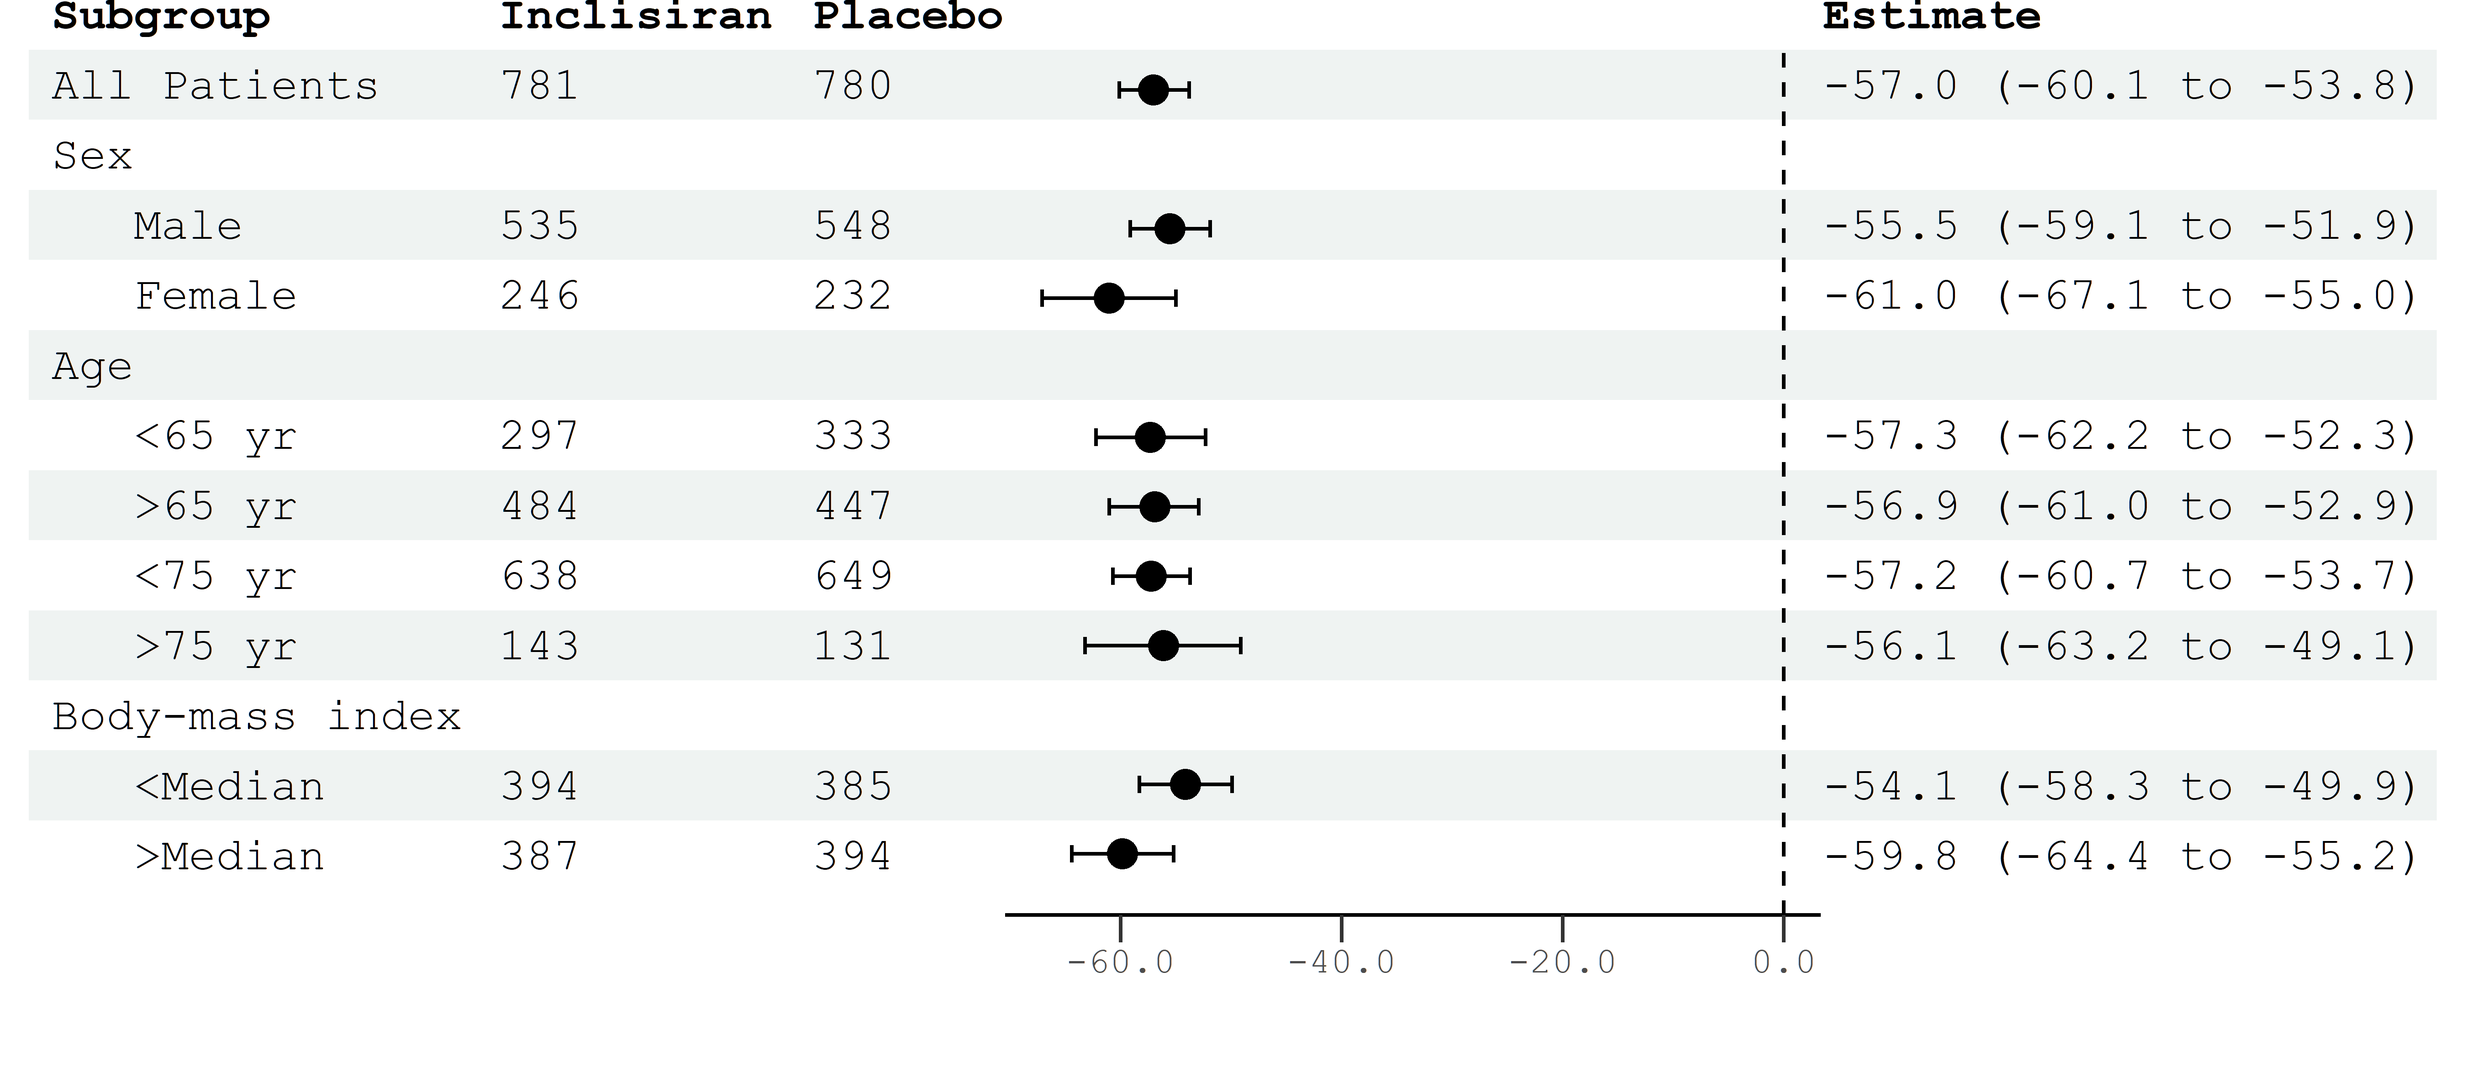
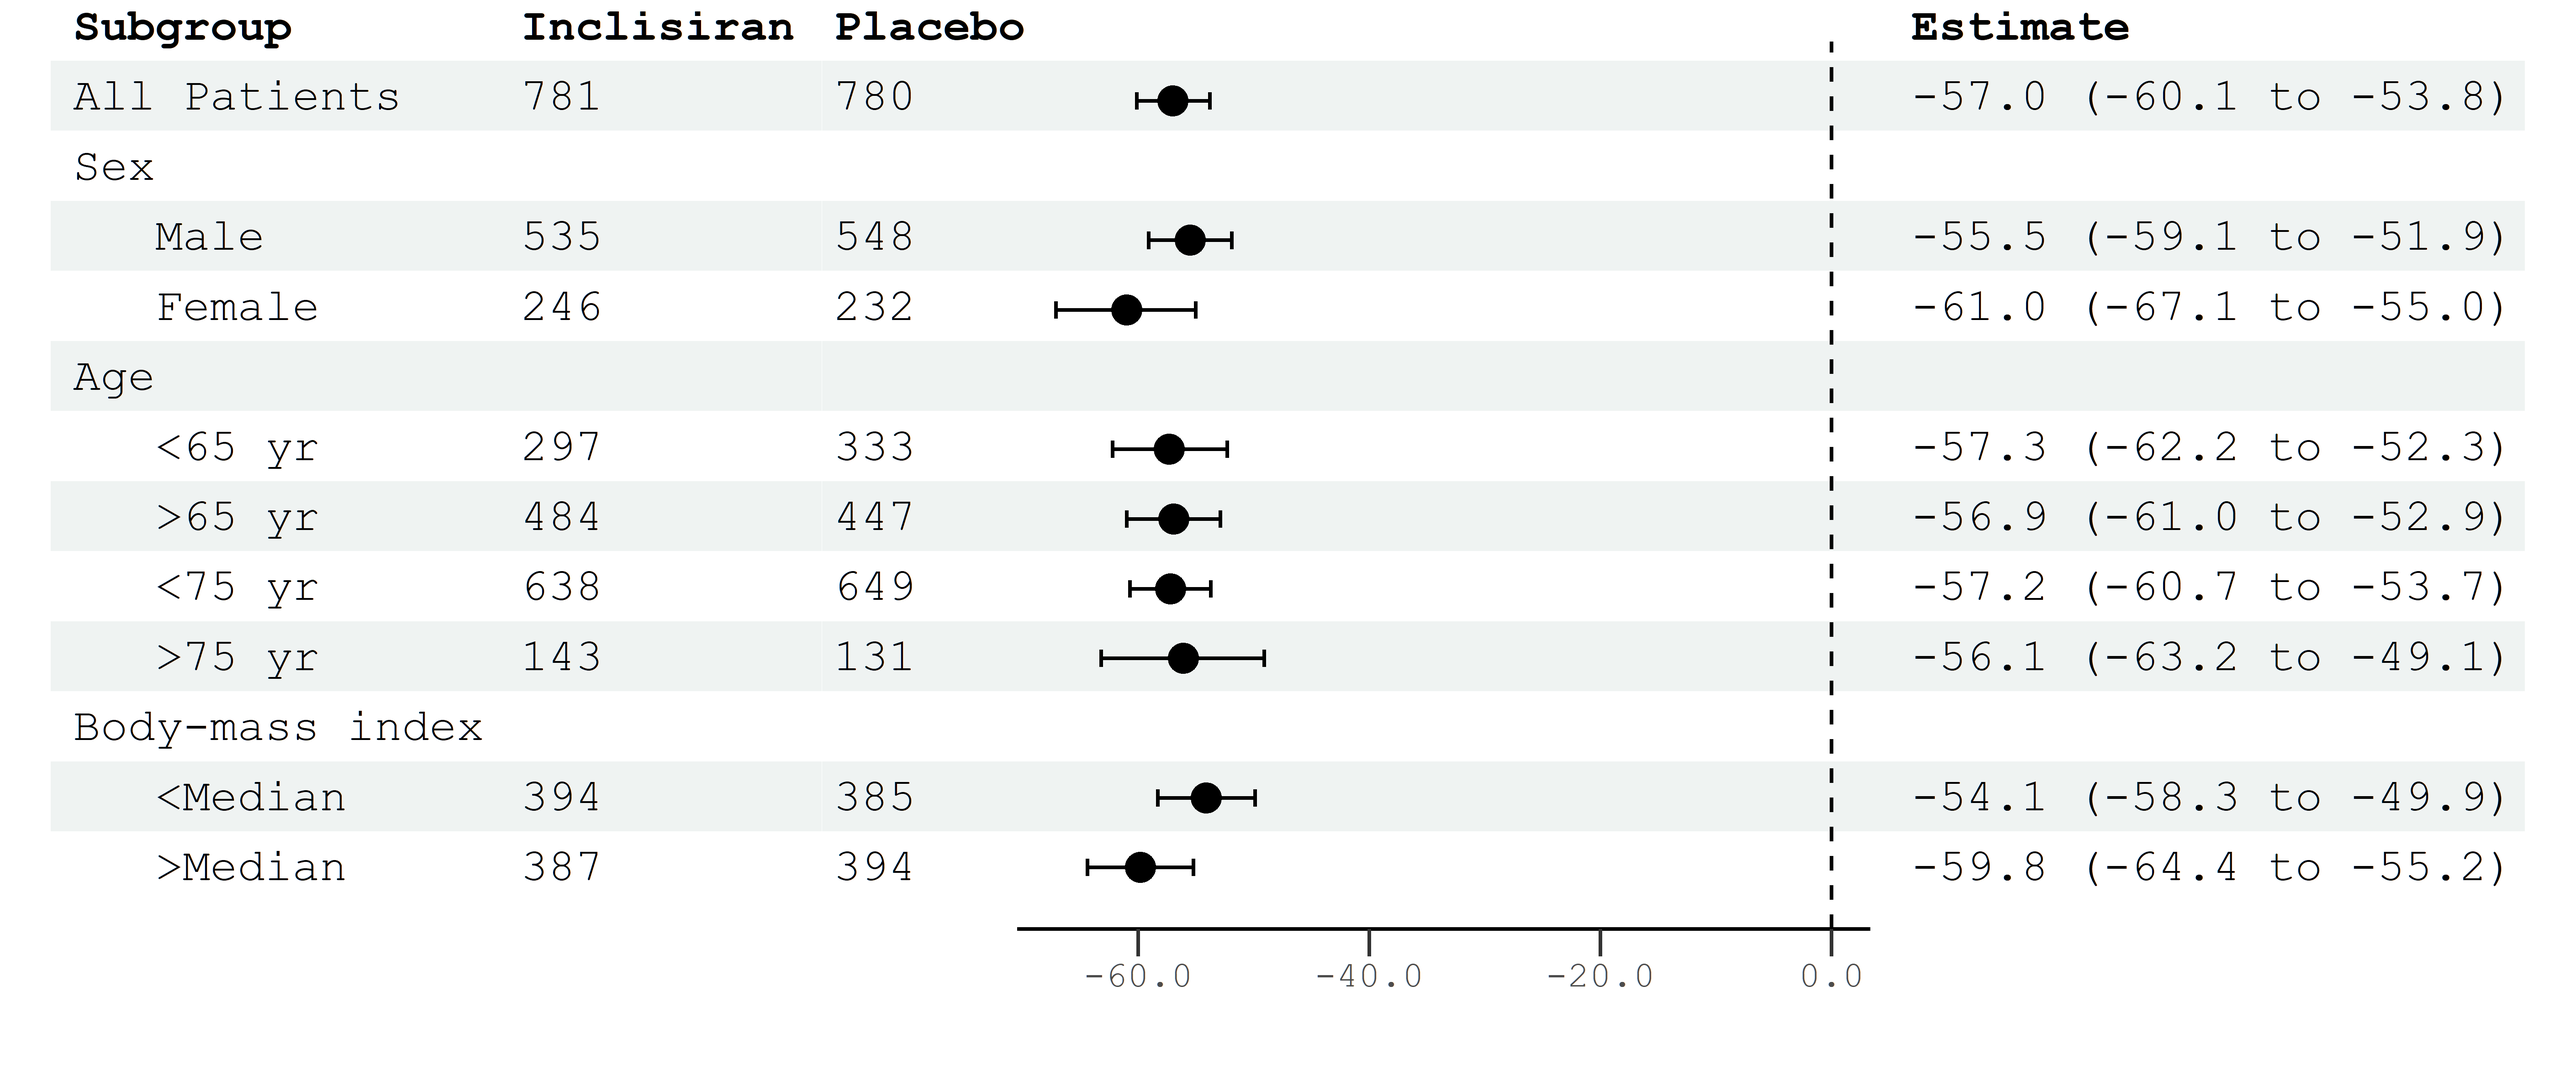
0-0-0 check with inset_element support

diff --git a/README.md b/README.md
@@ -51,6 +51,8 @@ forestable(left_side_data = table[,1:3],
            ci_high = table$`CI high`,
            display = FALSE,
            file_path = here::here("man/figures/forestable_plot.png"))
+#> Scale for 'x' is already present. Adding another scale for 'x', which will
+#> replace the existing scale.
 #> Warning: Removed 8 rows containing missing values (geom_point).
 #> Warning: Removed 8 rows containing missing values (geom_errorbarh).
 ```
@@ -68,6 +70,8 @@ forestable(left_side_data = table[1:12,1:3],
            ci_high = table$`CI high`[1:12],
            display = FALSE,
            file_path = here::here("man/figures/fewer_rows.png"))
+#> Scale for 'x' is already present. Adding another scale for 'x', which will
+#> replace the existing scale.
 #> Warning: Removed 3 rows containing missing values (geom_point).
 #> Warning: Removed 3 rows containing missing values (geom_errorbarh).
 ```
@@ -81,6 +85,8 @@ forestable(left_side_data = table[,1],
            ci_high = table$`CI high`,
            display = FALSE,
            file_path = here::here("man/figures/fewer_cols.png"))
+#> Scale for 'x' is already present. Adding another scale for 'x', which will
+#> replace the existing scale.
 #> Warning: Removed 8 rows containing missing values (geom_point).
 #> Warning: Removed 8 rows containing missing values (geom_errorbarh).
 ```
@@ -108,11 +114,48 @@ forestable(left_side_data = table[,1:3],
            display = FALSE,
            file_path = here::here("man/figures/forestable_plot_fira.png"),
            font_family = "Fira Sans")
+#> Scale for 'x' is already present. Adding another scale for 'x', which will
+#> replace the existing scale.
 #> Warning: Removed 8 rows containing missing values (geom_point).
 #> Warning: Removed 8 rows containing missing values (geom_errorbarh).
 ```
 
-![](man/figures/forestable_plot_fira.png)
+![](man/figures/forestable_plot_fira.png) Adjusting table properties
+with different fonts will still work:
+
+``` r
+forestable(left_side_data = table[1:12,1:3],
+           estimate = table$Estimate[1:12],
+           ci_low = table$`CI low`[1:12],
+           ci_high = table$`CI high`[1:12],
+           display = FALSE,
+           font_family = "Fira Sans",
+           file_path = here::here("man/figures/fewer_rows_fira.png"))
+#> Scale for 'x' is already present. Adding another scale for 'x', which will
+#> replace the existing scale.
+#> Warning: Removed 3 rows containing missing values (geom_point).
+#> Warning: Removed 3 rows containing missing values (geom_errorbarh).
+```
+
+![](man/figures/fewer_rows_fira.png)
+
+``` r
+windowsFonts("Times New Roman" = windowsFont("Times New Roman"))
+
+forestable(left_side_data = table[1:12,1:3],
+           estimate = table$Estimate[1:12],
+           ci_low = table$`CI low`[1:12],
+           ci_high = table$`CI high`[1:12],
+           display = FALSE,
+           font_family = "Times New Roman",
+           file_path = here::here("man/figures/fewer_rows_times.png"))
+#> Scale for 'x' is already present. Adding another scale for 'x', which will
+#> replace the existing scale.
+#> Warning: Removed 3 rows containing missing values (geom_point).
+#> Warning: Removed 3 rows containing missing values (geom_errorbarh).
+```
+
+![](man/figures/fewer_rows_times.png)
 
 ## Multiple forest plots
 
@@ -138,6 +181,8 @@ sensitivity <- forestable(left_side_data = table2[, 1:4],
                           file_path = here::here("man/figures/forestable_sensitivity.png"),
                           null_line_at = 100,
                           estimate_col_name = "Sensitivity")
+#> Scale for 'x' is already present. Adding another scale for 'x', which will
+#> replace the existing scale.
 #> Warning: Removed 2 rows containing missing values (geom_point).
 #> Warning: Removed 2 rows containing missing values (geom_errorbarh).
 
@@ -149,6 +194,8 @@ specificity <- forestable(left_side_data = table2[, 8:9],
                           file_path = here::here("man/figures/forestable_specificity.png"),
                           null_line_at = 100,
                           estimate_col_name = "Specificity")
+#> Scale for 'x' is already present. Adding another scale for 'x', which will
+#> replace the existing scale.
 #> Warning: Removed 2 rows containing missing values (geom_point).
 
 #> Warning: Removed 2 rows containing missing values (geom_errorbarh).
